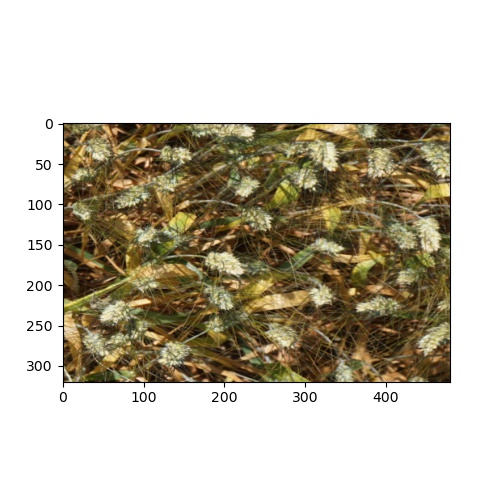
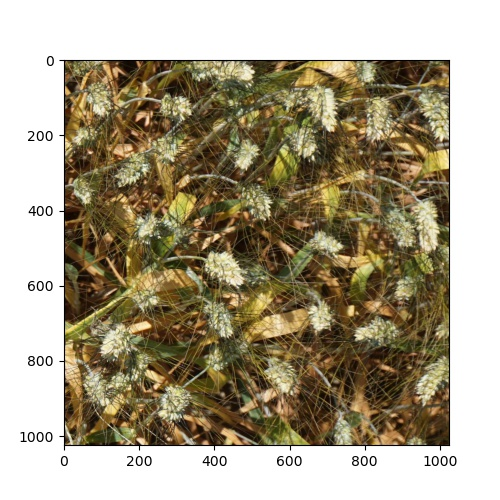
Segmentation with masking done

diff --git a/utils.py b/utils.py
@@ -255,7 +255,7 @@ class ConvAutoencoder(nn.Module):
 def data_loading():
     # convert data to torch.FloatTensor
     # transform = transforms.ToTensor()
-    transform = transforms.Compose([transforms.Resize([int(320), int(480)]),
+    transform = transforms.Compose([transforms.Resize([int(1024), int(1024)]),
                                 transforms.ToTensor()])
     # load the training and test datasets
     # train_data = datasets.MNIST(root='data', train=True, download=True, transform=transform)
@@ -318,8 +318,8 @@ def training_model(model, train_loader):
 
             for idx, image in enumerate(noisy_imgs):
                 # image[image <= 0.39] = 0
-                image = segmentation_with_masking(255*image.permute(1, 2, 0).numpy())  
-                noisy_imgs[idx] = image
+                image = segmentation_with_masking((255*image).permute(1, 2, 0).numpy())  
+                noisy_imgs[idx] = torch.from_numpy(image).permute(2, 0, 1)
               
             
 
@@ -487,7 +487,7 @@ def segmentation_with_masking(img):
     gray = np.array(cv2.cvtColor(img, cv2.COLOR_RGB2GRAY))
     thresh = cv2.threshold(gray, np.mean(gray), 255, cv2.THRESH_BINARY_INV)[1]
     np.mean(gray)
-    edges = cv2.dilate(cv2.Canny(thresh, 0, 255), None)
+    edges = cv2.dilate(cv2.Canny(thresh.astype(np.uint8), 0, 255), None)
 
     cnt = sorted(cv2.findContours(edges, cv2.RETR_LIST, cv2.CHAIN_APPROX_SIMPLE)[-2], key=cv2.contourArea)[-1]
     # mask = np.zeros((256,256), np.uint8)
